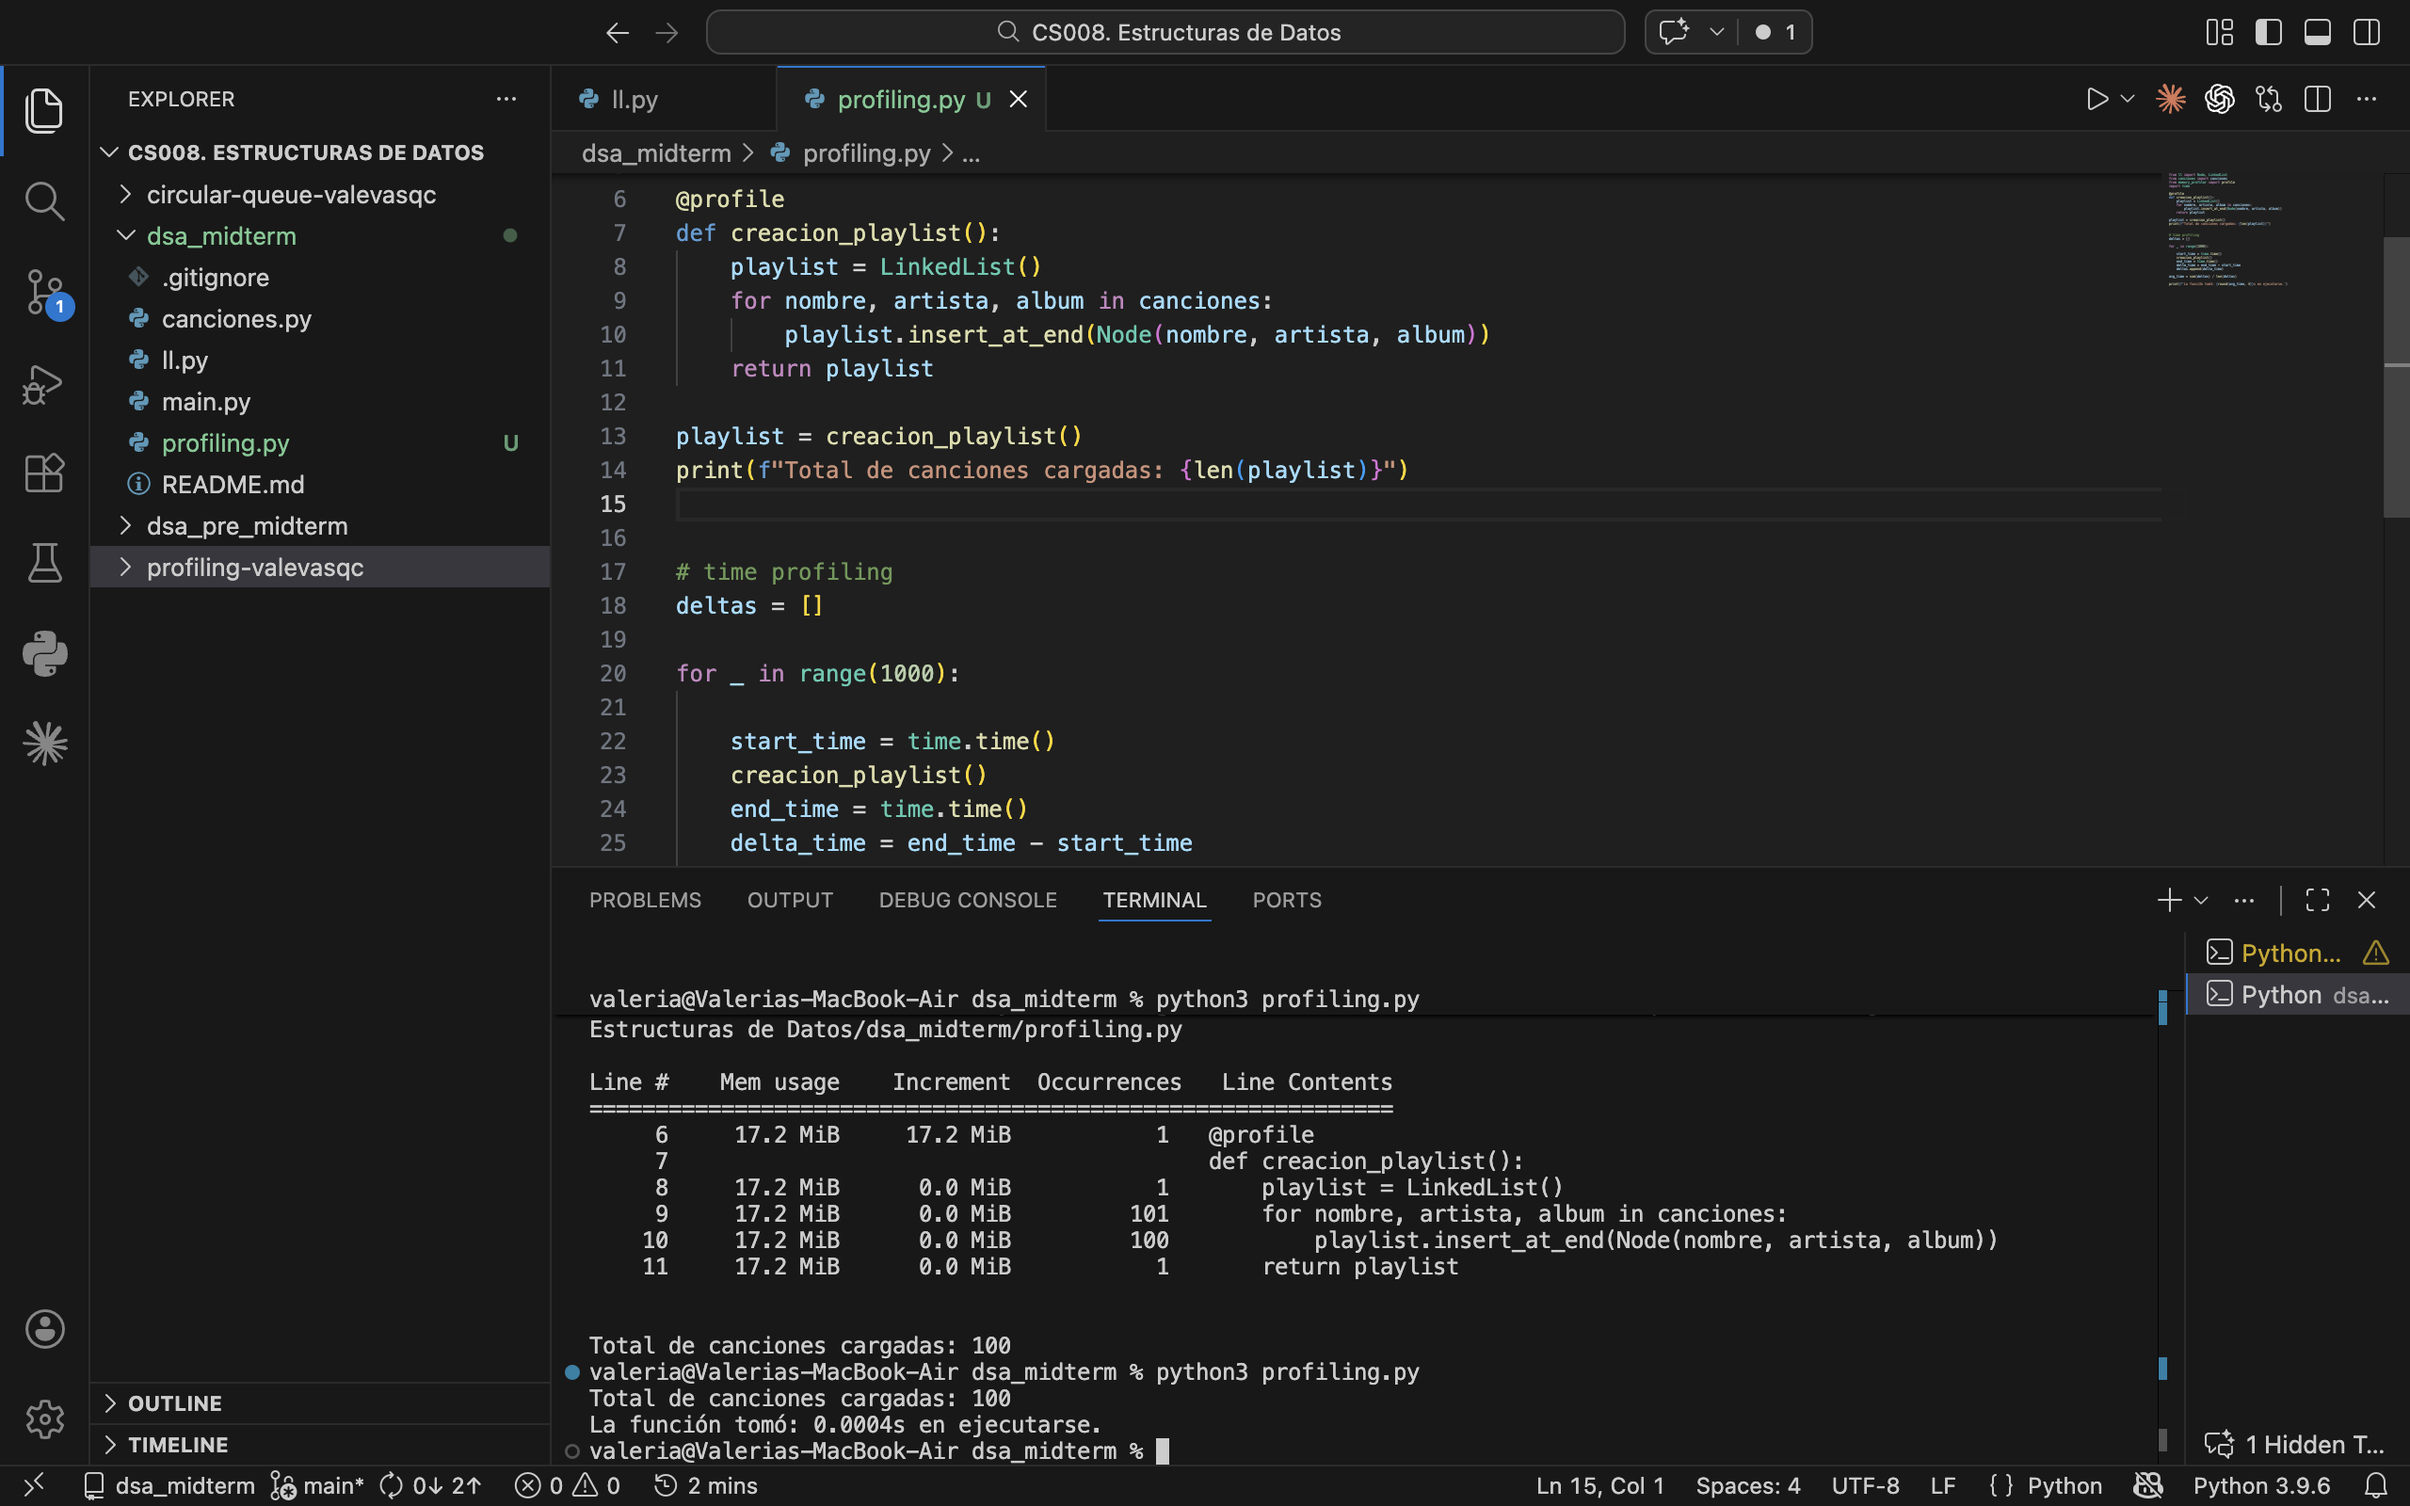
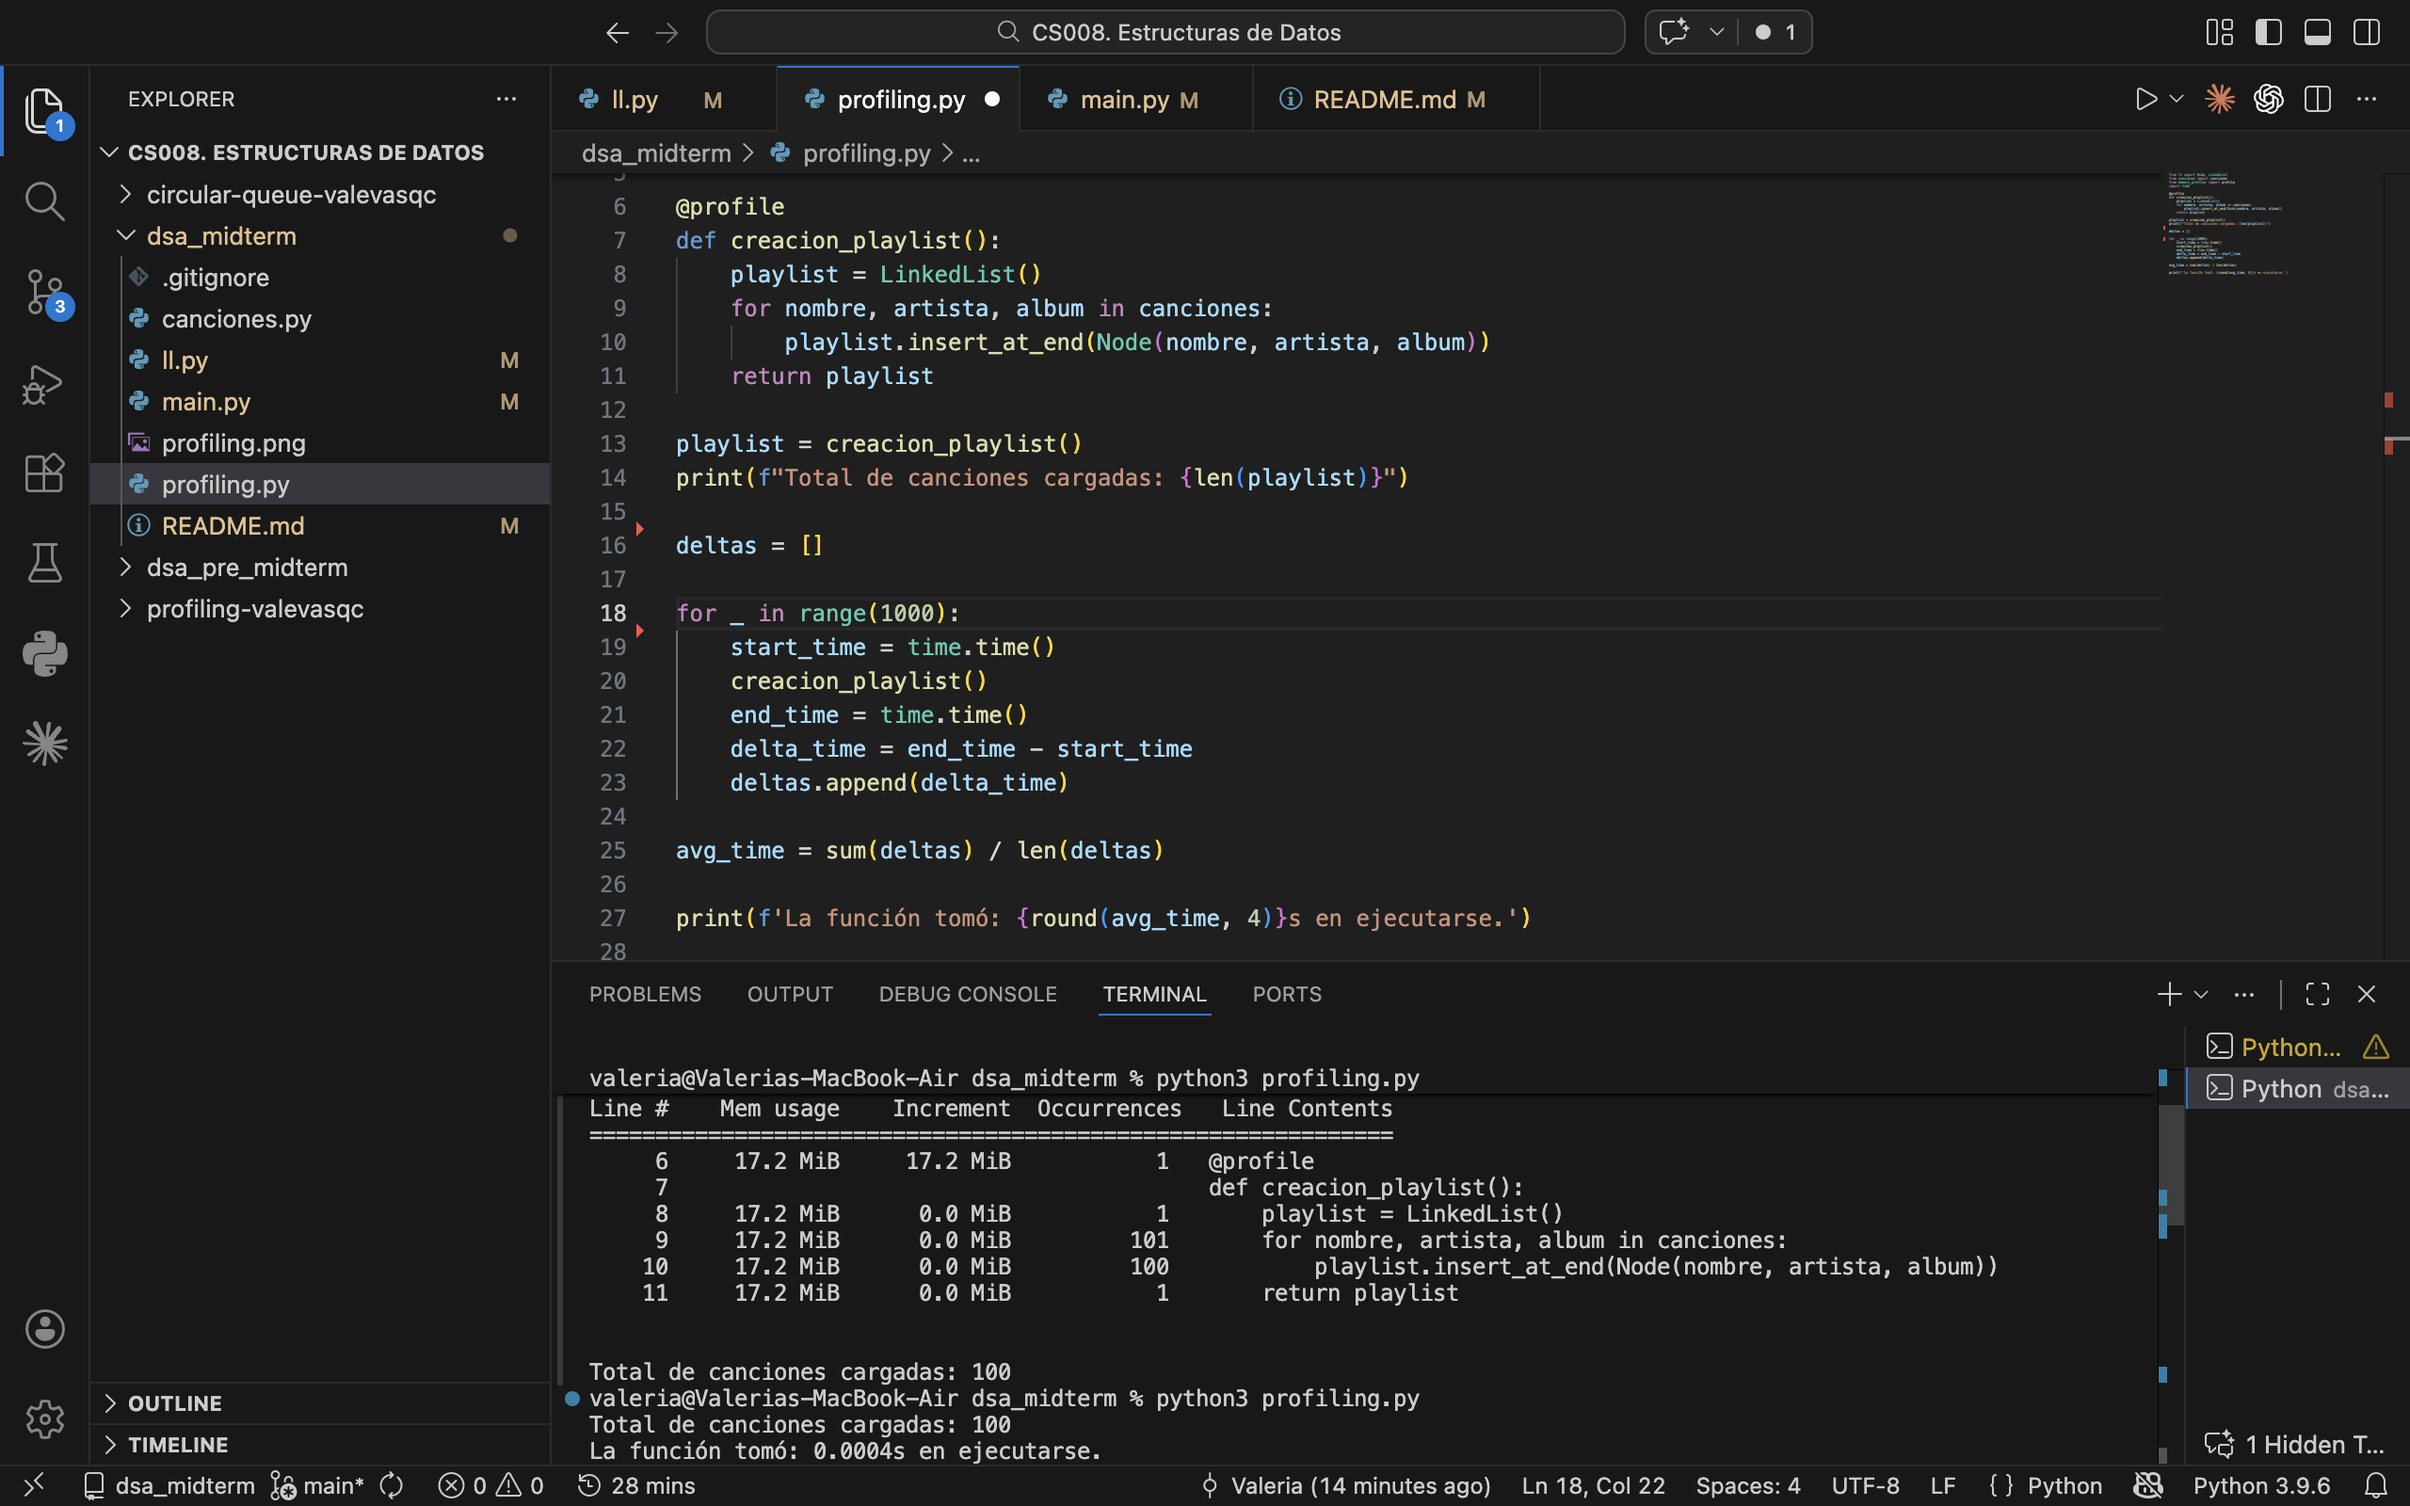
paso 3 shuffle

diff --git a/main.py b/main.py
@@ -5,3 +5,40 @@ playlist = LinkedList()
 
 for nombre, artista, album in canciones:
 	playlist.insert_at_end(Node(nombre, artista, album))
+
+if playlist.start is None:
+	print("La playlist esta vacia.")
+else:
+	actual = playlist.start
+	print(f"Total de canciones cargadas: {len(playlist)}")
+
+	while True:
+		print("\nReproduciendo ahora:")
+		print(f"- Cancion: {actual.data['nombre']}")
+		print(f"- Artista: {actual.data['artista']}")
+		print(f"- Album: {actual.data['album']}")
+		print(f"Shuffle: {'ON' if playlist.shuffle_mode else 'OFF'}")
+
+		print("\nOpciones: [s] toggle shuffle | [n] siguiente | [p] anterior | [q] salir")
+		opcion = input("Selecciona una opcion: ").strip().lower()
+
+		if opcion == "s":
+			playlist.toggle_shuffle()
+			print(f"Shuffle: {'ON' if playlist.shuffle_mode else 'OFF'}")
+		elif opcion == "n":
+			if playlist.shuffle_mode:
+				actual = playlist.next_node(actual)
+			elif actual.next is None:
+				print("Ya estas en la ultima cancion.")
+			else:
+				actual = playlist.next_node(actual)
+		elif opcion == "p":
+			if actual.prev is None:
+				print("Ya estas en la primera cancion.")
+			else:
+				actual = actual.prev
+		elif opcion == "q":
+			print("Saliendo de la playlist.")
+			break
+		else:
+			print("Opcion invalida. Usa s, n, p o q.")

diff --git a/ll.py b/ll.py
@@ -1,4 +1,5 @@
 from typing import Any
+import random
 
 class Node:
     def __init__(self, nombre: str, artista: str, album: str):
@@ -16,6 +17,7 @@ class Node:
 class LinkedList:
     def __init__(self):
         self.start = None
+        self.shuffle_mode = False
 
     def __repr__(self):
         nodes = ["START"]
@@ -96,3 +98,19 @@ class LinkedList:
                 return node
         return None
 
+    def toggle_shuffle(self):
+        self.shuffle_mode = not self.shuffle_mode
+
+    def random_node(self, current):
+        while True:
+            index = random.randint(0, len(self) - 1)
+            node = self.start
+            for _ in range(index):
+                node = node.next
+            if node != current:
+                return node
+
+    def next_node(self, current):
+        if self.shuffle_mode:
+            return self.random_node(current)
+        return current.next

diff --git a/profiling.py b/profiling.py
@@ -3,7 +3,6 @@ from canciones import canciones
 from memory_profiler import profile
 import time
 
-@profile
 def creacion_playlist():
     playlist = LinkedList()
     for nombre, artista, album in canciones:
@@ -13,12 +12,10 @@ def creacion_playlist():
 playlist = creacion_playlist()
 print(f"Total de canciones cargadas: {len(playlist)}")
 
-
 # time profiling
 deltas = []
 
 for _ in range(1000):
-
     start_time = time.time()
     creacion_playlist()
     end_time = time.time()

diff --git a/README.md b/README.md
@@ -1,1 +1,40 @@
 # dsa_midterm
+
+## Clonar y ejecutar
+
+```bash
+git clone git@github.com:valevasqc/dsa_midterm.git
+cd dsa_pre_midterm
+python3 main.py
+```
+
+## Controles de la playlist
+
+- `n`: siguiente canción
+- `p`: canción anterior
+- `q`: salir
+
+La reproducción inicia en la primera canción.
+La playlist no es circular: el inicio y el final son límites.
+
+### Shuffle
+- Lógica básica: caminar un número random desde el inicio. Si el random sale 5, hacer 5 nexts
+- Complejidad temporal: O(n) porque tiene que moverse los espacios que haya salido en el random
+
+## Profiling
+Line #    Mem usage    Increment  Occurrences   Line Contents
+=============================================================
+     6     17.2 MiB     17.2 MiB           1   @profile
+     7                                         def creacion_playlist():
+     8     17.2 MiB      0.0 MiB           1       playlist = LinkedList()
+     9     17.2 MiB      0.0 MiB         101       for nombre, artista, album in canciones:
+    10     17.2 MiB      0.0 MiB         100           playlist.insert_at_end(Node(nombre, artista, album))
+    11     17.2 MiB      0.0 MiB           1       return playlist
+
+Total de canciones cargadas: 100
+La función tomó: 0.0004s en ejecutarse.
+
+- El espacio en memoria que ocupa es siempre el mismo, pues carga la lista de canciones y cualquier incremento posterior al incluirlos en la linkedlist es mínimo, por lo que el redondeo se queda en 0.
+- El tiempo de ejecución también es bajo, indicando eficiencia.
+
+![Gráfica de utilización de memoria](profiling.png)
